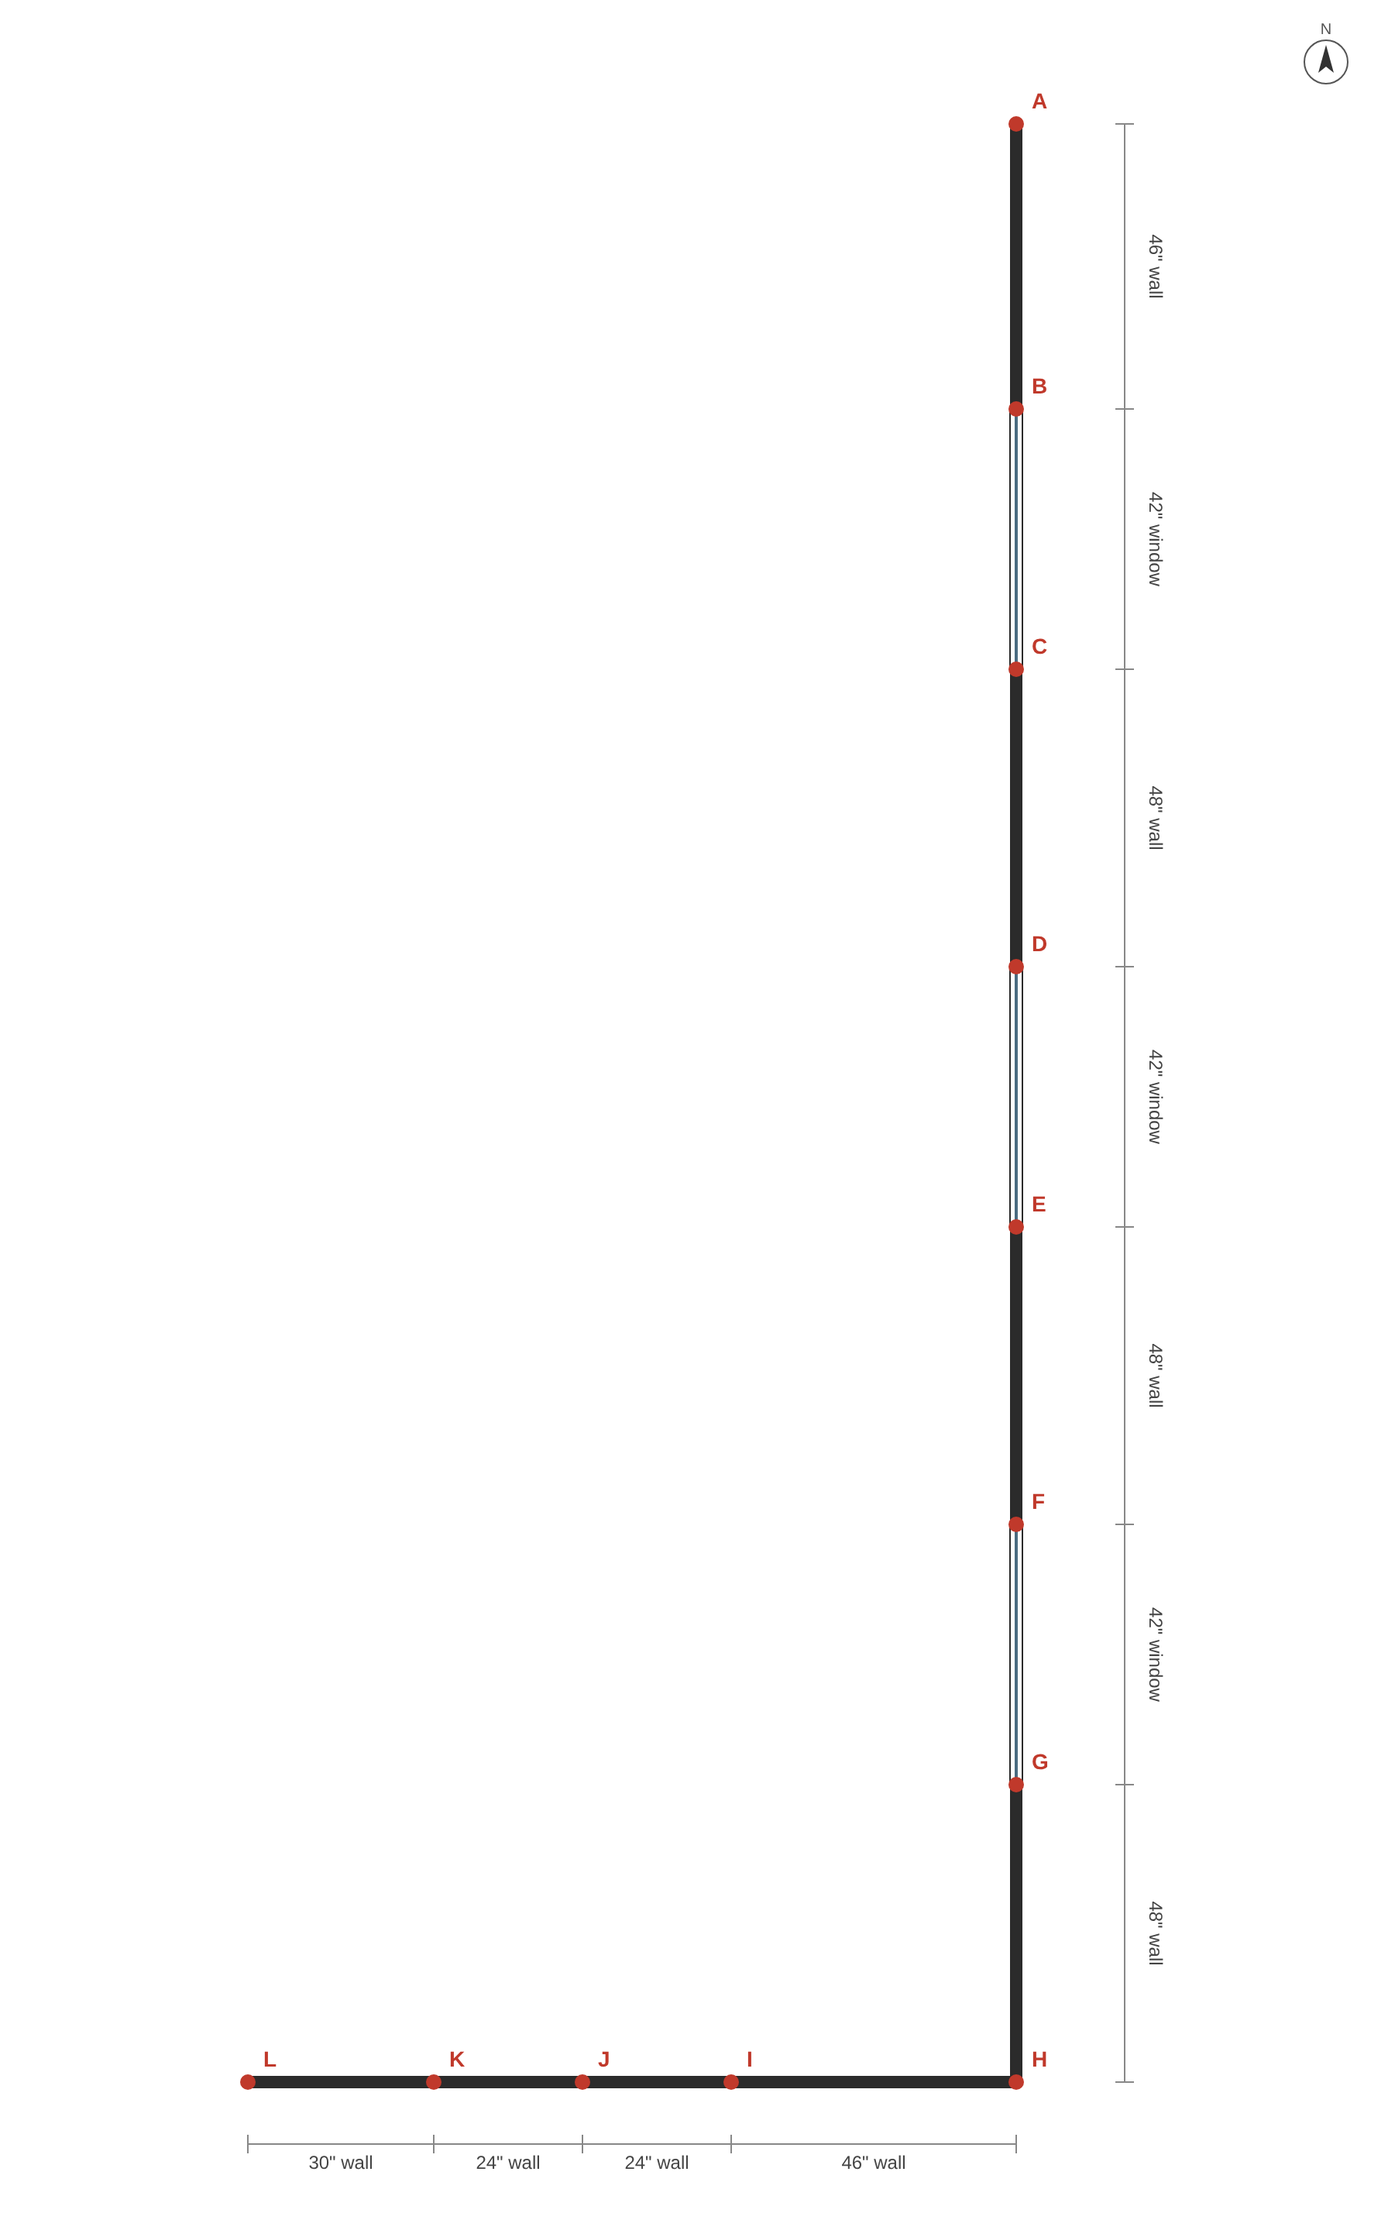
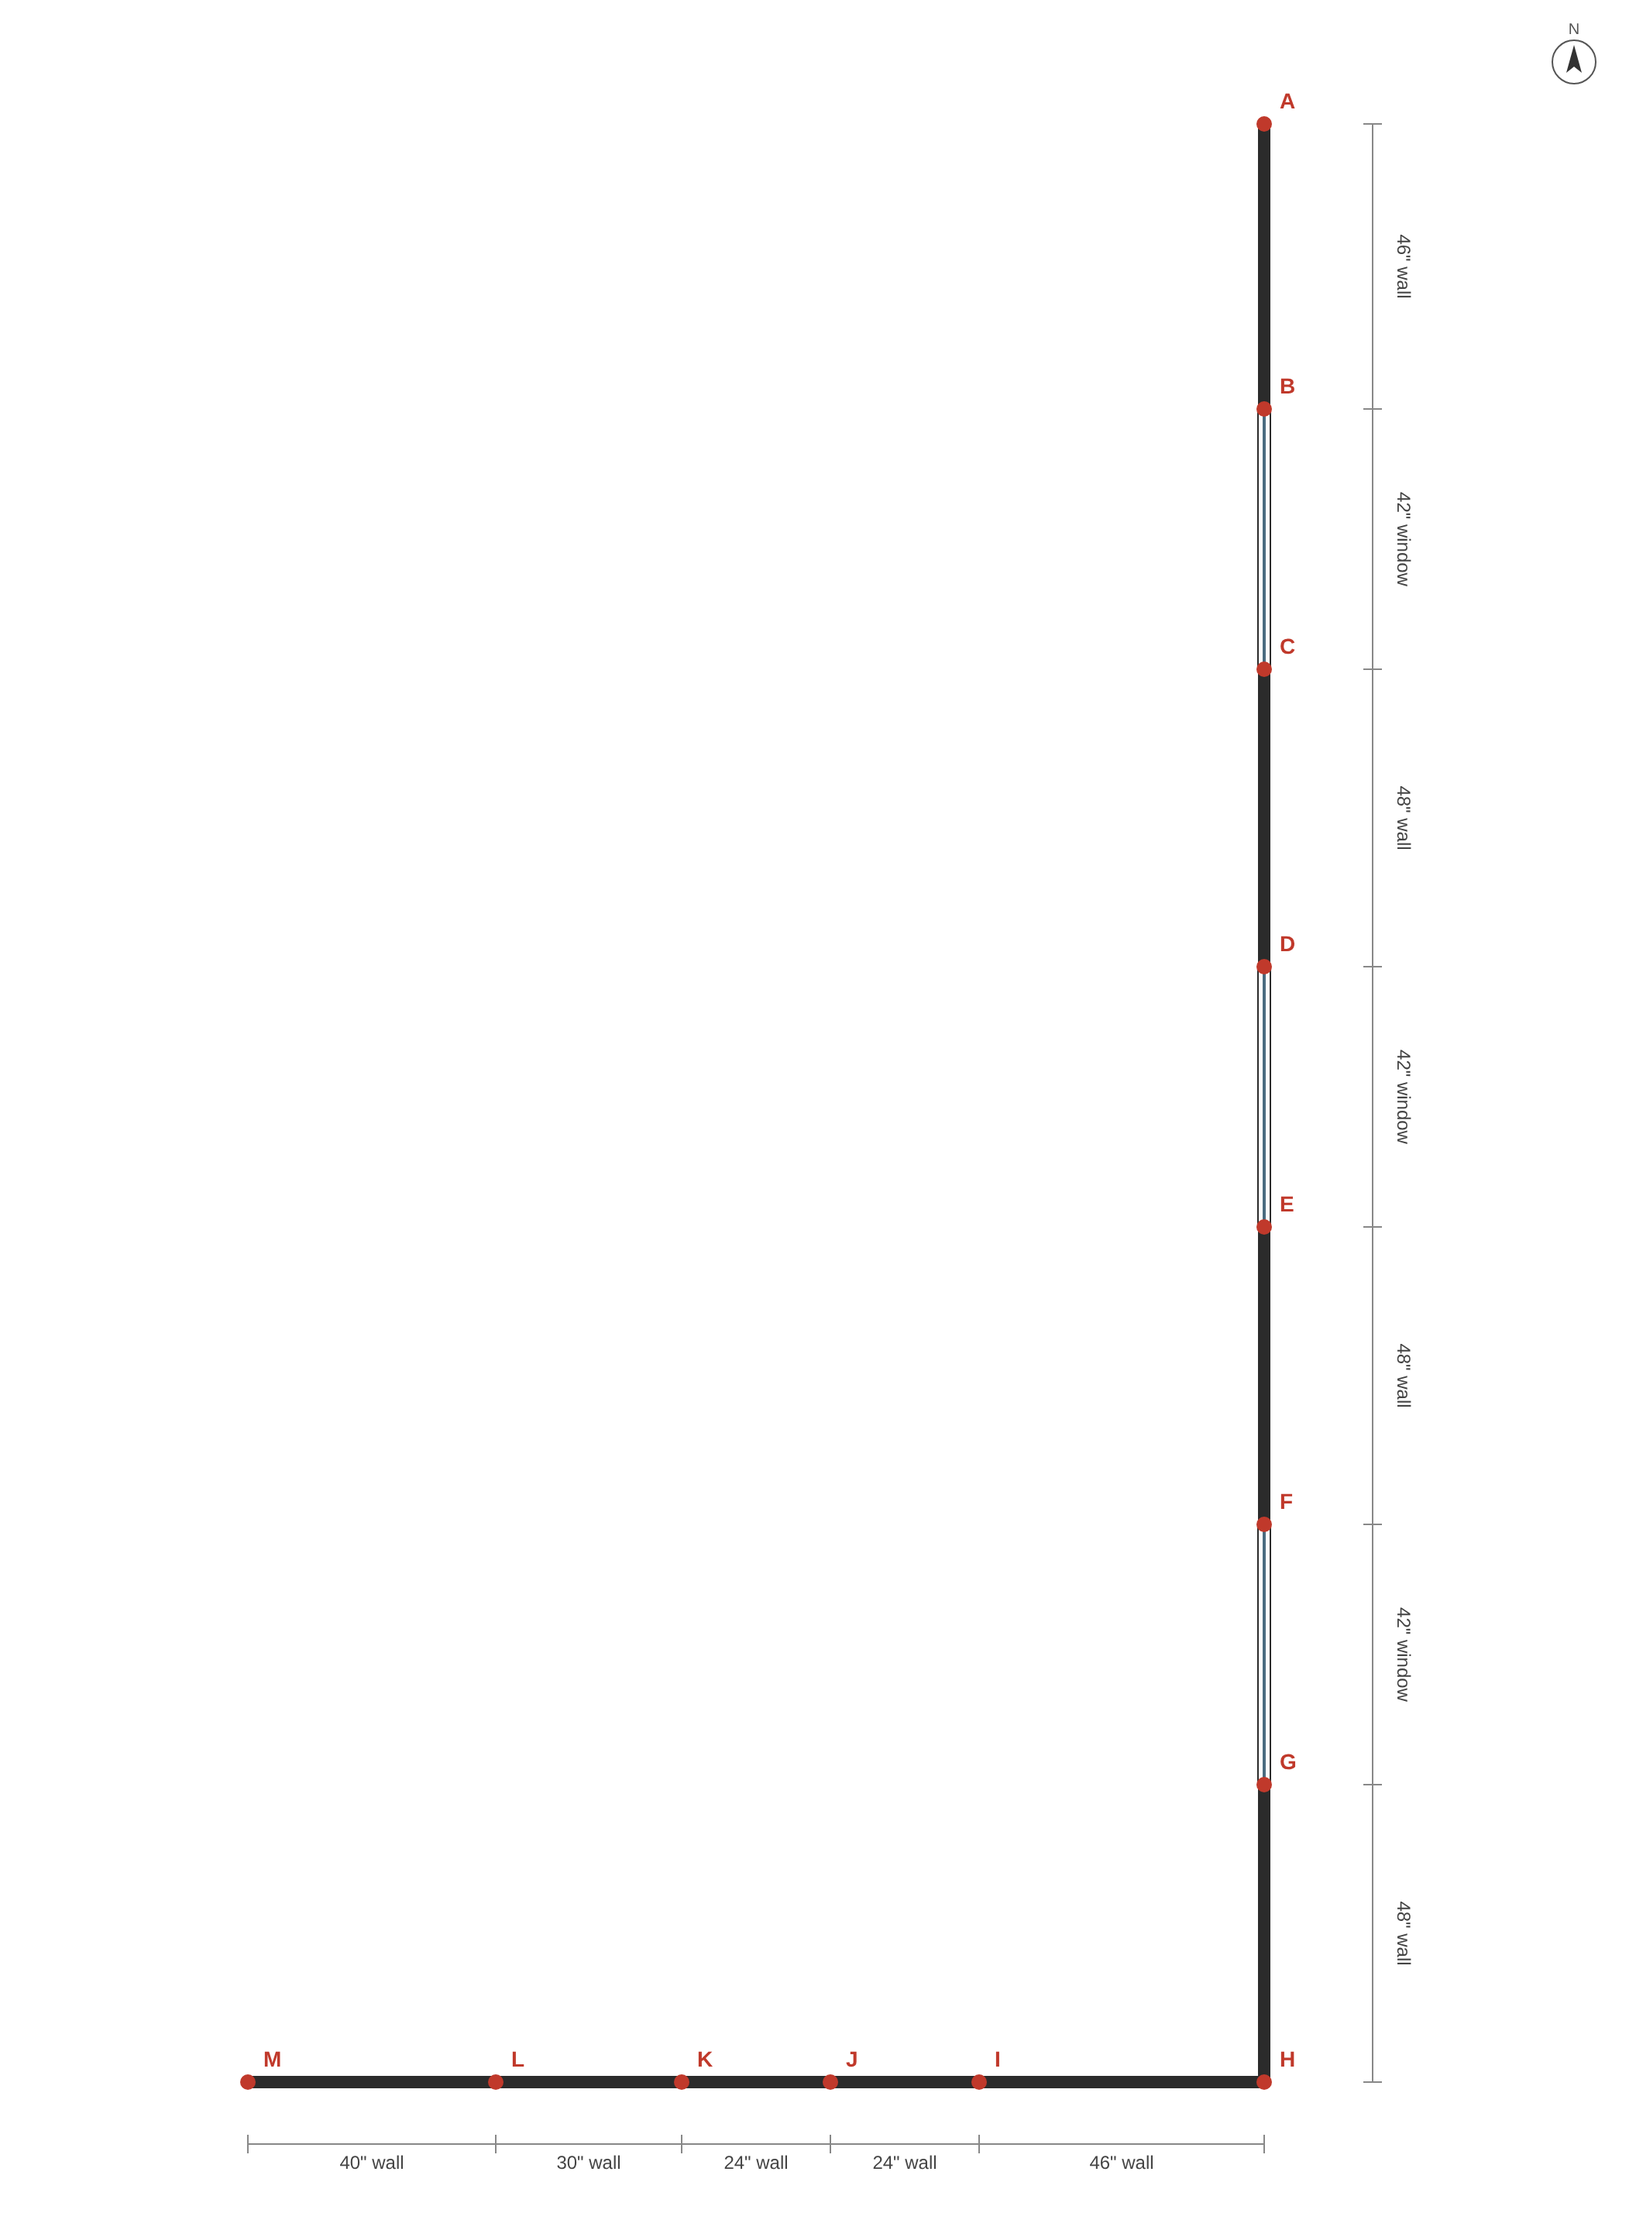
Floor plan: add wall L-M running west 40in
Claude-Session: https://claude.ai/code/session_01N1gJVqnW36KpNULQpj6QJQ

diff --git a/floorplans/build_floorplan.py b/floorplans/build_floorplan.py
@@ -19,6 +19,7 @@ SEGMENTS = [
     ("W", 24, "wall", "J"),
     ("W", 24, "wall", "K"),
     ("W", 30, "wall", "L"),
+    ("W", 40, "wall", "M"),
 ]
 
 MARGIN = 80
